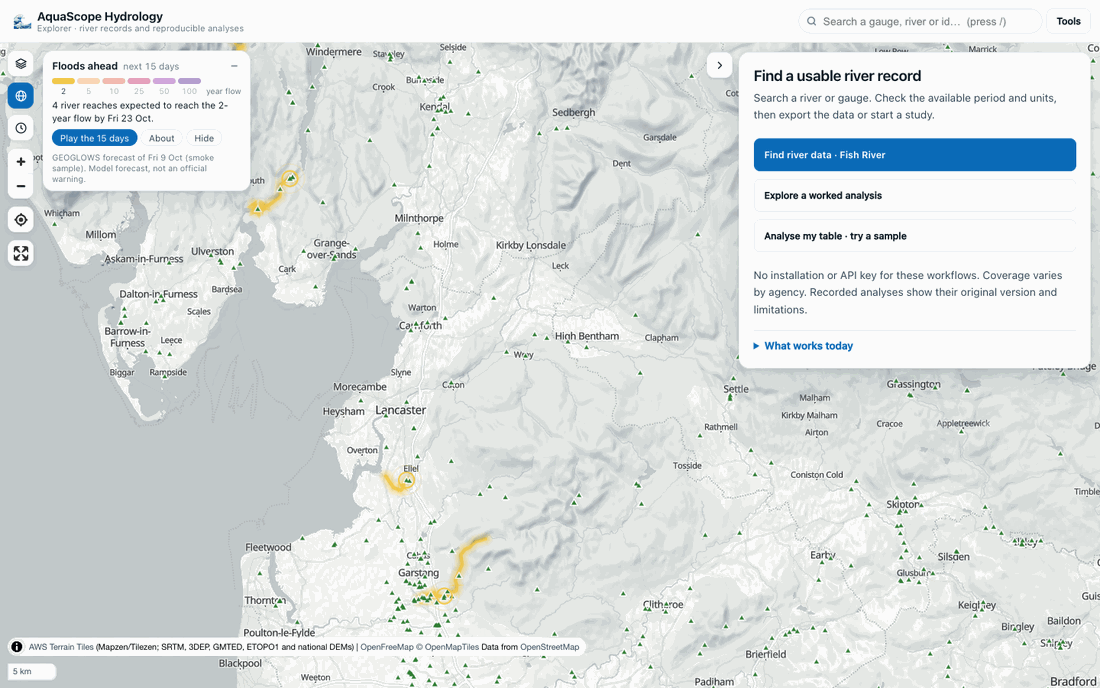
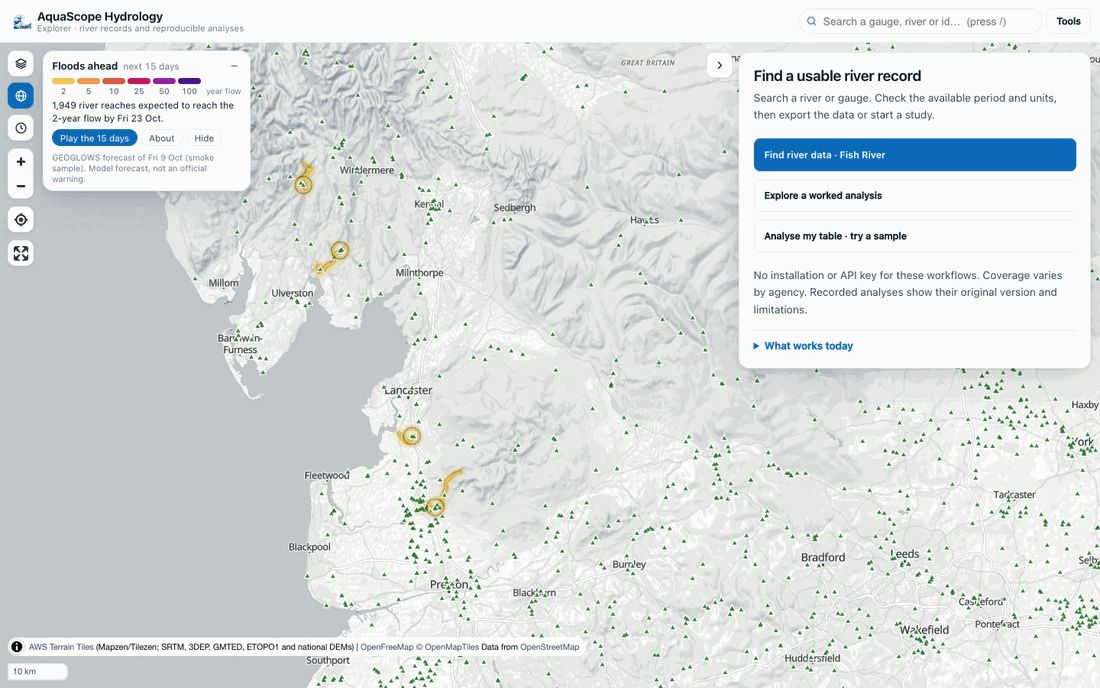
Floods ahead review: casing for the pale classes, rings past the clusters, honest partial issues (#546)
- A thin dark casing under the flooded river lines and the gauge rings: the 2-year
  yellow (most reaches) was about 1.5:1 against the light basemap.
- Gauge rings start at zoom 7, where the gauges stop clustering; on the globe a ring
  sat on a cluster bubble (seen on a phone).
- The legend says "partial: N% of rivers read" when the daily job ran out of time or
  lost chunks, instead of looking complete.
- latest.geojson leaves out a reach without a position and is written as strict JSON,
  so a NaN can never break the layer in the browser.
- Explorer docs and the gauge screenshot updated.

diff --git a/explorer/src/floods-ahead.js b/explorer/src/floods-ahead.js
@@ -25,12 +25,18 @@ export { FLOODS_CREDIT };
 const BASE = `${CONFIG.forecastsBase}warnings/`;
 const L = {
   net: "river-fa-net", pts: "river-fa-pts", gauges: "river-fa-gauges",
-  glow: "river-fa-glow", line: "river-fa-line", halo: "river-fa-halo", dot: "river-fa-dot", ring: "river-fa-ring",
-  pulse: "river-fa-pulse",
+  glow: "river-fa-glow", casing: "river-fa-casing", line: "river-fa-line", halo: "river-fa-halo", dot: "river-fa-dot",
+  ringCasing: "river-fa-ring-casing", ring: "river-fa-ring", pulse: "river-fa-pulse",
 };
+const ALL = [L.glow, L.casing, L.line, L.halo, L.dot, L.ringCasing, L.ring, L.pulse];
 const CLICKABLE = [L.dot, L.halo, L.line];
 // Past this zoom the river lines carry the class and the glow dots step back.
 const LINE_ZOOM = 5;
+// The gauges stop clustering past zoom 6 (map.js, clusterMaxZoom); before that a ring would sit on a cluster
+// bubble or on empty map, so the rings start here.
+const RING_ZOOM = 7;
+// A thin dark edge under the class colour: the pale 2-year yellow is the commonest class and needs it on a light map.
+const CASING = "rgba(24,28,36,0.45)";
 
 let data = null;          // { manifest, features, byId }
 let loading = null;
@@ -99,6 +105,15 @@ function ensureLayers() {
         },
       }, before);
       map.addLayer({
+        id: L.casing, type: "line", source: L.net, "source-layer": "streams", minzoom: 3, filter: ["boolean", false],
+        layout: { visibility: vis(), "line-cap": "round", "line-join": "round" },
+        paint: {
+          "line-color": CASING,
+          "line-width": ["interpolate", ["linear"], ["zoom"], 3, 2.6, 6, 4, 10, 6.6],
+          "line-opacity": ["interpolate", ["linear"], ["zoom"], 3, 0, LINE_ZOOM - 1, 0.8],
+        },
+      }, before);
+      map.addLayer({
         id: L.line, type: "line", source: L.net, "source-layer": "streams", minzoom: 3, filter: ["boolean", false],
         layout: { visibility: vis(), "line-cap": "round", "line-join": "round" },
         paint: {
@@ -134,16 +149,25 @@ function ensureLayers() {
     // The gauges on a flooded reach: a still ring in the reach's class colour (all a reader who prefers less
     // motion sees), and over it a second ring that breathes outwards.
     const ringColor = ["match", ["get", "c"], ...FLOOD_CLASSES.flatMap((c) => [c.rp, c.color]), NONE];
+    const ringRadius = ["interpolate", ["linear"], ["zoom"], RING_ZOOM, 7, 10, 10];
     map.addLayer({
-      id: L.ring, type: "circle", source: L.gauges,
+      id: L.ringCasing, type: "circle", source: L.gauges, minzoom: RING_ZOOM,
       layout: { visibility: vis() },
       paint: {
-        "circle-color": NONE, "circle-radius": ["interpolate", ["linear"], ["zoom"], 4, 6, 10, 10],
+        "circle-color": NONE, "circle-radius": ringRadius,
+        "circle-stroke-color": CASING, "circle-stroke-width": 4.2, "circle-stroke-opacity": 0.8,
+      },
+    });
+    map.addLayer({
+      id: L.ring, type: "circle", source: L.gauges, minzoom: RING_ZOOM,
+      layout: { visibility: vis() },
+      paint: {
+        "circle-color": NONE, "circle-radius": ringRadius,
         "circle-stroke-color": ringColor, "circle-stroke-width": 2.2, "circle-stroke-opacity": 0.95,
       },
     });
     map.addLayer({
-      id: L.pulse, type: "circle", source: L.gauges,
+      id: L.pulse, type: "circle", source: L.gauges, minzoom: RING_ZOOM,
       layout: { visibility: vis() },
       paint: {
         "circle-color": NONE, "circle-radius": 9,
@@ -170,9 +194,9 @@ function draw() {
   const groups = idsByClass(data.features, day);
   if (map.getLayer(L.line)) {
     const color = lineColorExpr(groups), filter = lineFilterExpr(groups);
-    for (const id of [L.glow, L.line]) {
+    for (const id of [L.glow, L.casing, L.line]) {
       map.setFilter(id, filter);
-      map.setPaintProperty(id, "line-color", color);
+      if (id !== L.casing) map.setPaintProperty(id, "line-color", color);
     }
   }
   map.getSource(L.pts).setData(pointsFor(data.features, day));
@@ -216,7 +240,7 @@ function pulse() {
     last = now;
     if (!map.getLayer(L.pulse)) return;
     const box = map.getBounds();
-    const inView = map.getZoom() >= 3 && gaugeCoords.some((c) => box.contains(c));
+    const inView = map.getZoom() >= RING_ZOOM && gaugeCoords.some((c) => box.contains(c));
     if (!inView) {
       if (!idle) { map.setPaintProperty(L.pulse, "circle-stroke-opacity", 0); idle = true; }
       return;
@@ -392,7 +416,7 @@ export function setFloodsVisible(on) {
   if (toggle) toggle.checked = visible;
   if (!visible) { stopPlay(); if (popup) popup.remove(); }
   if (state.mapOk && map) {
-    for (const id of [L.glow, L.line, L.halo, L.dot, L.ring, L.pulse]) {
+    for (const id of ALL) {
       if (map.getLayer(id)) map.setLayoutProperty(id, "visibility", vis());
     }
   }

diff --git a/explorer/src/floods-ahead-core.js b/explorer/src/floods-ahead-core.js
@@ -5,8 +5,9 @@
 // class on the map's date, the MapLibre expressions and the short sentences.
 
 // Return-period classes, yellow to deep purple. Lightness falls steadily with
-// the class, so the order still reads under any colour-vision deficiency, and
-// every class is drawn with a light halo so the dark end holds on a dark map.
+// the class, so the order still reads under any colour-vision deficiency. The
+// soft glow under each line keeps the dark end visible on a dark map, and a thin
+// dark casing keeps the pale yellow end visible on a light one.
 export const FLOOD_CLASSES = [
   { rp: 2, label: "2-year", color: "#f2c94c" },
   { rp: 5, label: "5-year", color: "#f2994a" },
@@ -136,7 +137,16 @@ export function legendLine(manifest, i, n) {
 
 export function issueLine(manifest) {
   if (!manifest || manifest.missing) return "";
-  return `GEOGLOWS forecast of ${shortDay(manifest.issue_date)}${manifest.smoke ? " (smoke sample)" : ""}`;
+  return `GEOGLOWS forecast of ${shortDay(manifest.issue_date)}${manifest.smoke ? " (smoke sample)" : coverageNote(manifest)}`;
+}
+
+/** " (partial: 87% of rivers read)" when the daily job ran out of time or lost chunks, else "". A gap in the
+ * reading is a gap on the map, so the legend says so rather than look complete. */
+export function coverageNote(manifest) {
+  const c = (manifest && manifest.chunks) || {};
+  const needed = Number(c.needed), read = Number(c.read);
+  if (!(needed > 0) || !Number.isFinite(read) || read >= needed) return "";
+  return ` (partial: ${Math.floor((100 * read) / needed)}% of rivers read)`;
 }
 
 const fmtFlow = (x) => {

diff --git a/aquascope/archive/warnings.py b/aquascope/archive/warnings.py
@@ -463,7 +463,11 @@ def _write_parquet(rows: list[dict[str, Any]], path: Path) -> None:
 
 def to_geojson(rows: list[dict[str, Any]], cap: int = GEOJSON_MAX) -> tuple[dict[str, Any], bool]:
     """The reaches as slim points for the browser, highest class (then the largest peak over 2-year flow) first."""
-    ranked = sorted(rows, key=lambda r: (-r["rp"], -(r["peak_cms"] or 0) / max(r["q2"] or 1e-9, 1e-9)))
+    import math
+
+    # A reach with no position cannot be drawn, and a NaN would make the file invalid JSON for the browser.
+    placed = [r for r in rows if math.isfinite(r.get("lat", math.nan)) and math.isfinite(r.get("lon", math.nan))]
+    ranked = sorted(placed, key=lambda r: (-r["rp"], -(r["peak_cms"] or 0) / max(r["q2"] or 1e-9, 1e-9)))
     feats = []
     for r in ranked[:cap]:
         feats.append({"type": "Feature", "geometry": {"type": "Point", "coordinates": [round(r["lon"], 4),
@@ -471,7 +475,7 @@ def to_geojson(rows: list[dict[str, Any]], cap: int = GEOJSON_MAX) -> tuple[dict
                       "properties": {"river_id": r["river_id"], "rp": r["rp"], "peak": r["peak_cms"], "q2": r["q2"],
                                      "day": r["peak_date"], "share": r["share"], "order": r["strahler_order"],
                                      "daily": r["daily"], "gauges": ";".join(r.get("gauges") or [])}})
-    return {"type": "FeatureCollection", "features": feats}, len(rows) > cap
+    return {"type": "FeatureCollection", "features": feats}, len(placed) > cap
 
 
 def run(out: str | Path, *, repo_id: str = DEFAULT_REPO, min_order: int = DEFAULT_MIN_ORDER,
@@ -587,7 +591,7 @@ def run(out: str | Path, *, repo_id: str = DEFAULT_REPO, min_order: int = DEFAUL
     _write_parquet(rows, root / "latest.parquet")
     _write_parquet(rows, root / f"{day}.parquet")
     fc, truncated = to_geojson(rows)
-    (root / "latest.geojson").write_text(json.dumps(fc, separators=(",", ":")))
+    (root / "latest.geojson").write_text(json.dumps(fc, separators=(",", ":"), allow_nan=False))
     counts = counts_by_class([r["rp"] for r in rows])
     smoke = max_chunks is not None
     entry = {"issue_date": day, "file": f"{FOLDER}/{day}.parquet", "n": len(rows), "counts": counts}

diff --git a/tests/test_archive/test_warnings.py b/tests/test_archive/test_warnings.py
@@ -109,6 +109,20 @@ def test_decode_chunk_reads_an_uncompressed_chunk_and_refuses_other_codecs():
         fw.decode_chunk(b"", {**arr, "compressor": {"id": "gzip"}})
 
 
+def test_to_geojson_ranks_by_class_and_leaves_out_reaches_without_a_position():
+    base = {"peak_cms": 10.0, "q2": 5.0, "peak_date": "2026-10-10", "share": 0.5, "strahler_order": 6,
+            "daily": "0" * 15, "gauges": []}
+    rows = [{**base, "river_id": 1, "lat": 10.0, "lon": 20.0, "rp": 2},
+            {**base, "river_id": 2, "lat": float("nan"), "lon": 20.0, "rp": 100},
+            {**base, "river_id": 3, "lat": -5.0, "lon": 30.0, "rp": 25}]
+    fc, truncated = fw.to_geojson(rows, cap=5)
+    assert [f["properties"]["river_id"] for f in fc["features"]] == [3, 1]
+    assert not truncated
+    json.dumps(fc, allow_nan=False)                     # what the browser reads must be strict JSON
+    _, truncated = fw.to_geojson(rows, cap=1)
+    assert truncated
+
+
 # ── a whole run over a fake forecast ────────────────────────────────────────
 
 MEMBERS, STEPS, DAY_STEPS = 3, 40, 8                    # 3 members + the high-res run, 5 days of 3-hourly steps

diff --git a/docs/explorer.md b/docs/explorer.md
@@ -339,11 +339,13 @@ non-commercial use). The same functions are `aquascope now` and the MCP tools
 expects to reach their 2-year flow in the next 15 days, drawn on the globe. Far out,
 each reach is a soft glow in its class colour (2, 5, 10, 25, 50 or 100-year flow,
 yellow to deep purple, darker for rarer); from about zoom 4 the river itself lights
-up along the GEOGLOWS stream tiles. The Archive gauges on those reaches pulse gently
-(a still ring when the reader prefers less motion).
+up along the GEOGLOWS stream tiles. Zoomed in past the gauge clusters (zoom 7), the
+Archive gauges on those reaches pulse gently (a still ring when the reader prefers less
+motion).
 
 The legend card at the top left gives the classes, how many reaches, the day and the
-forecast run, and always says it is a model forecast, not an official warning. The
+forecast run, and always says it is a model forecast, not an official warning (and,
+if the daily job could not read every river in time, how much it read). The
 map's date (the time bar) picks what is drawn: inside the forecast's 15 days each
 reach shows its class on that day; outside them, its 15-day peak. **Play the 15
 days** walks the map's date through them and back. **About** gives the method and
